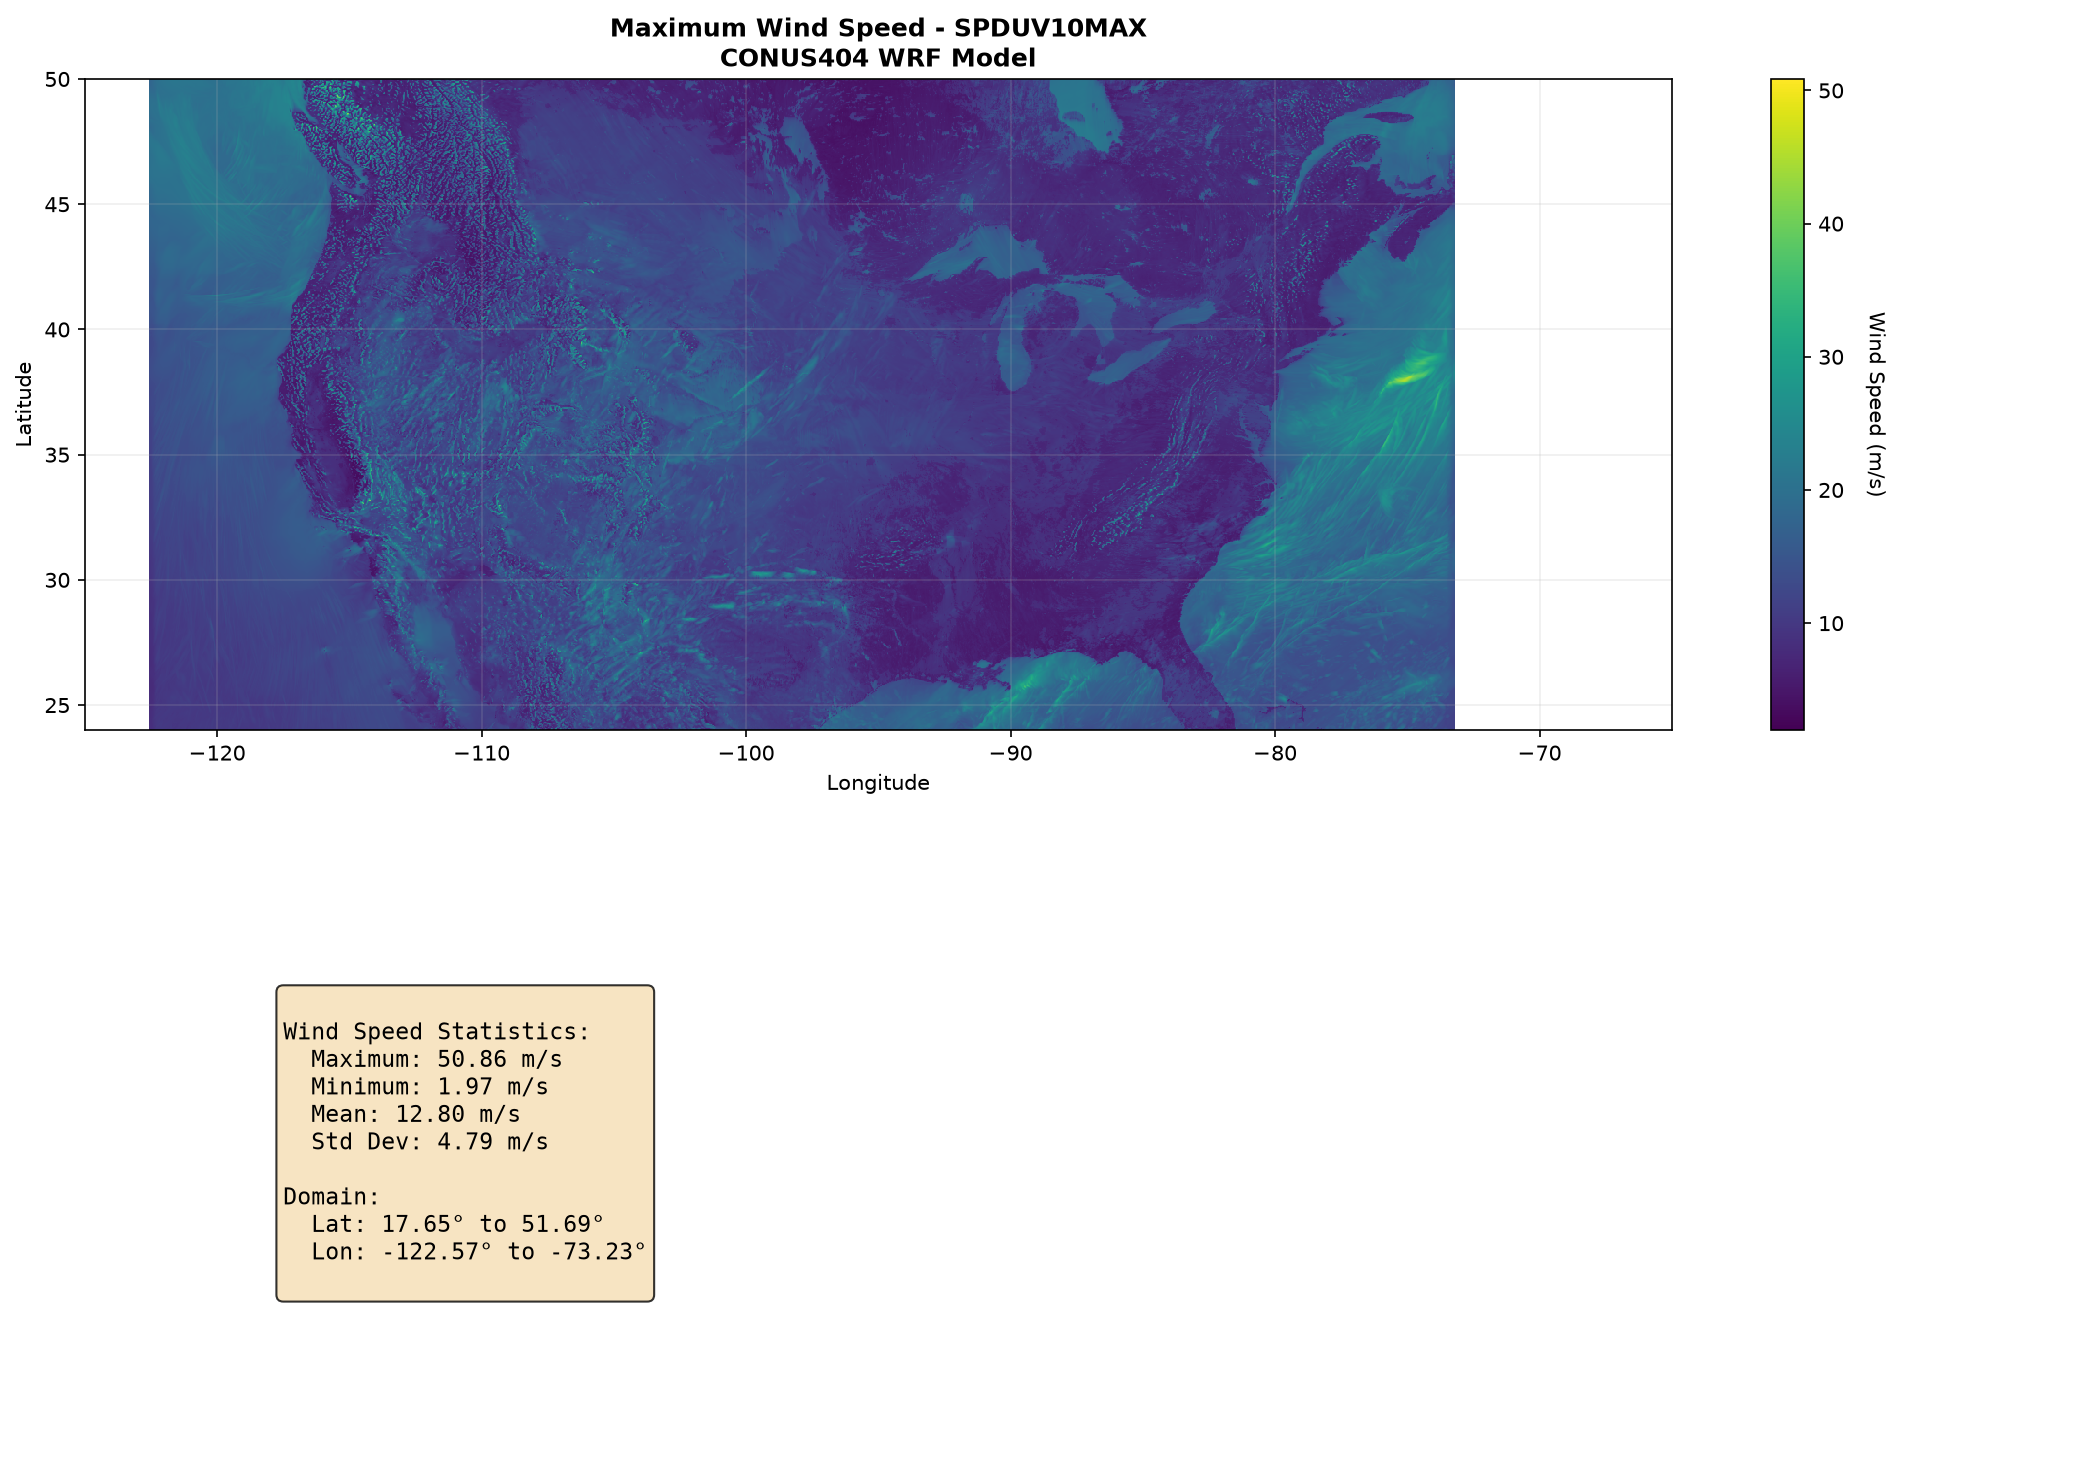
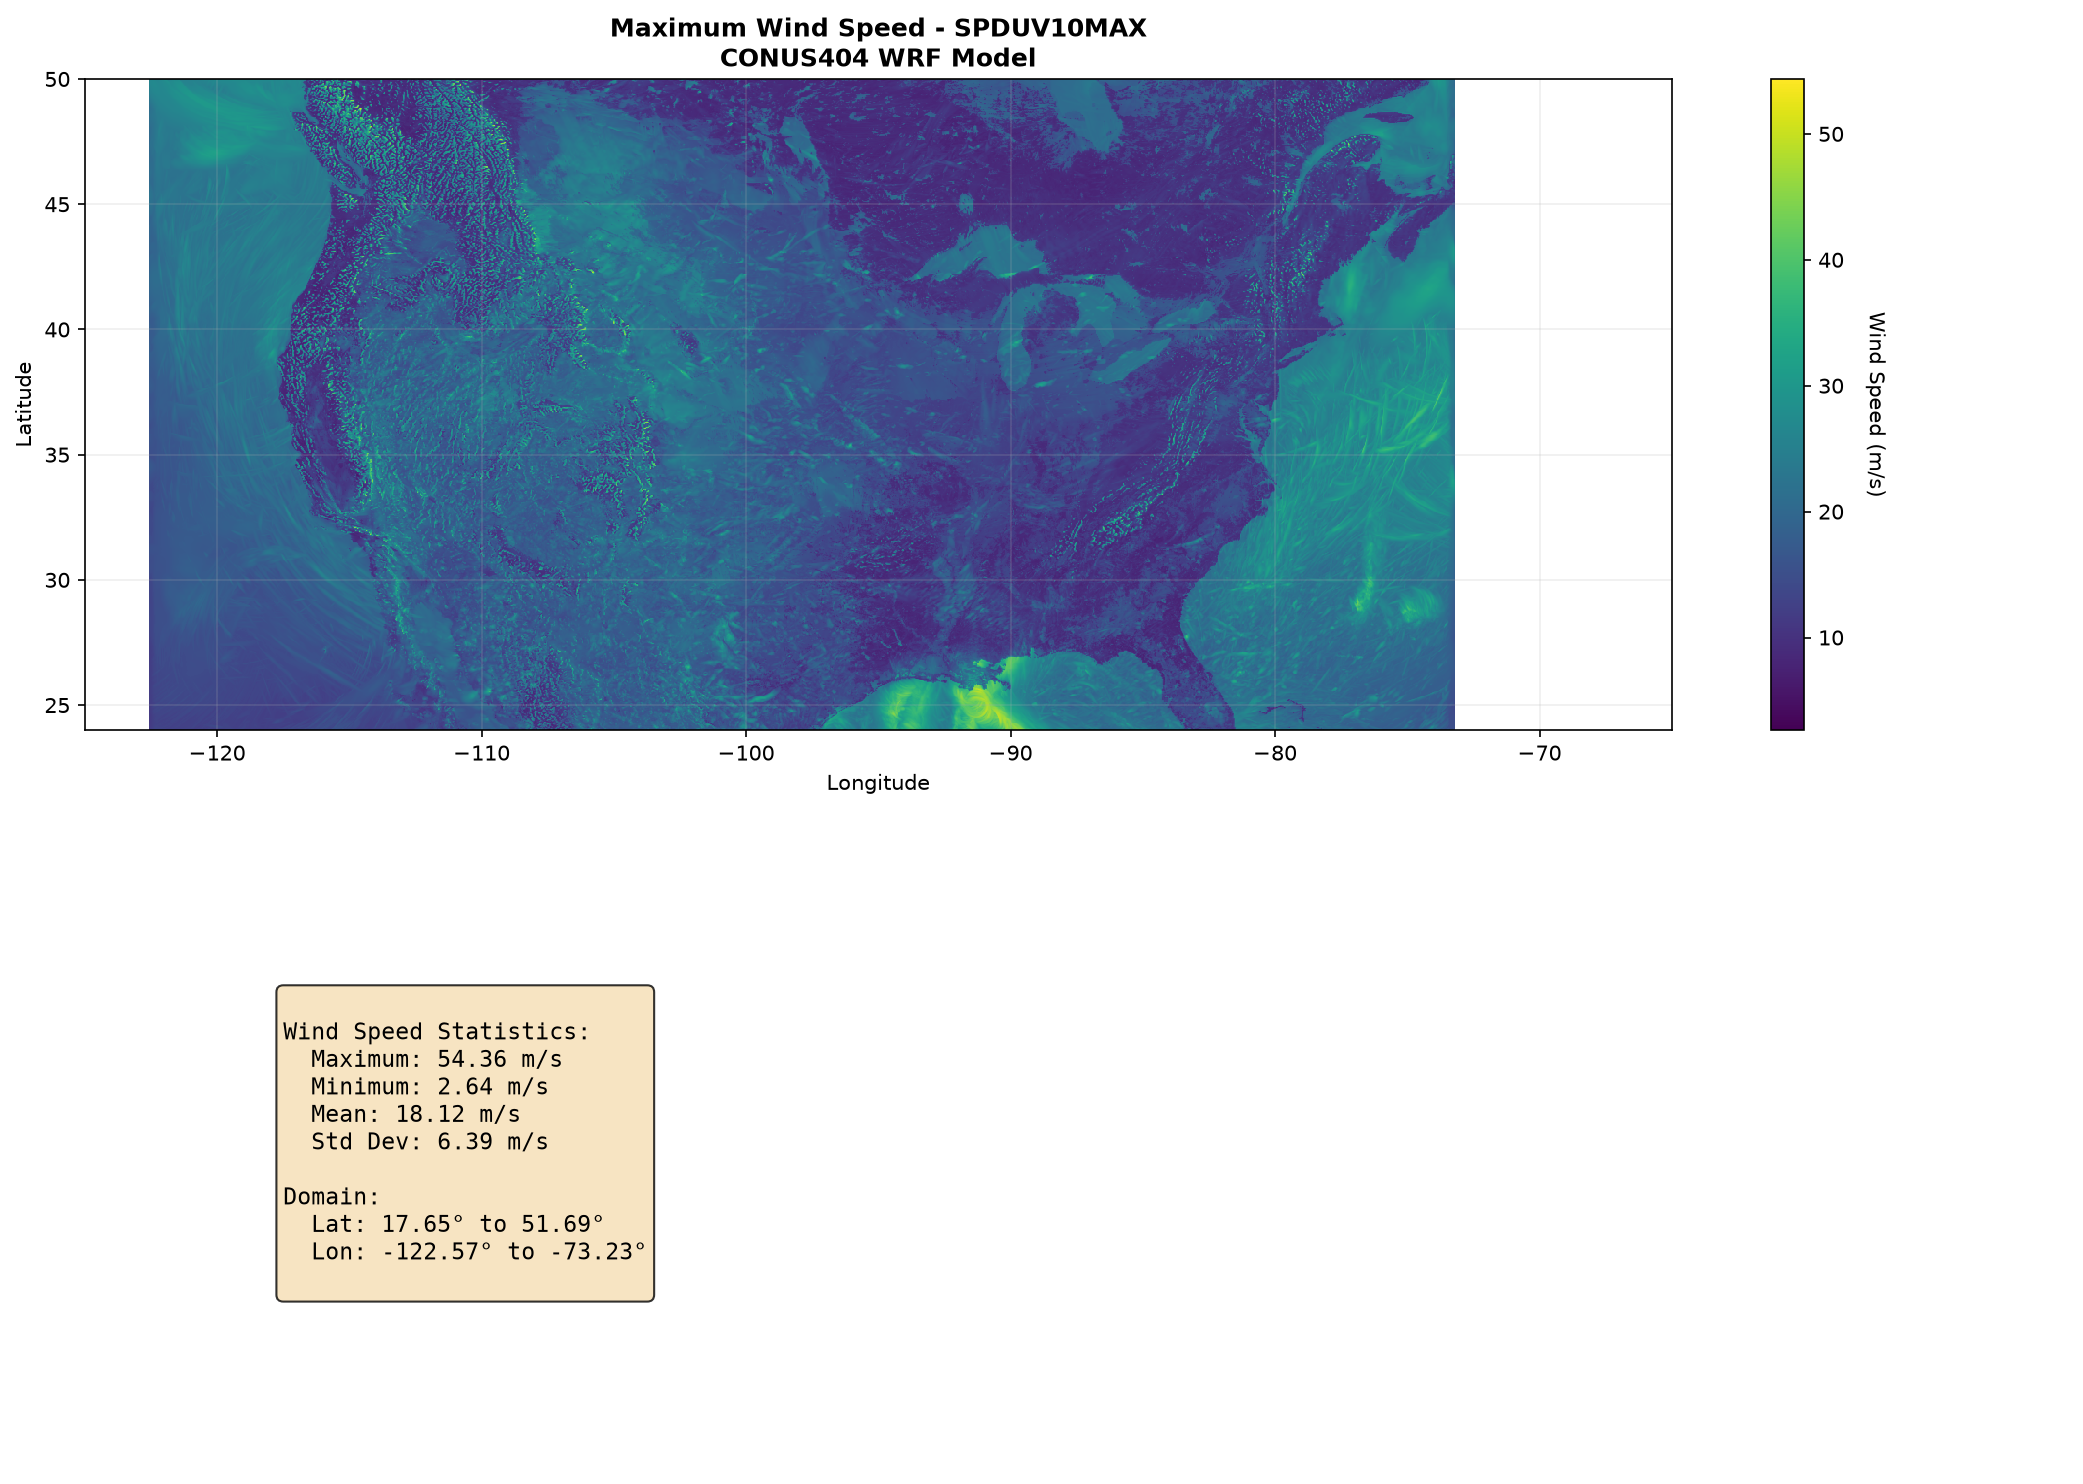
h5 development data downloads completed

diff --git a/visualize_max_wind_speed_area_focus.py b/visualize_max_wind_speed_area_focus.py
@@ -1,0 +1,158 @@
+"""
+Visualization of maximum wind speed from CONUS404 WRF model
+with regional bounding box cropping around Durham, NC.
+"""
+
+import xarray as xr
+import matplotlib.pyplot as plt
+import numpy as np
+from matplotlib.colors import Normalize
+import warnings
+warnings.filterwarnings('ignore')
+
+print("Loading NetCDF file...")
+nc_file = 'year_raw_data/water_year_2020/wrfxtrm_d01_max_spduv10max_2020.nc'
+ds = xr.open_dataset(nc_file)
+
+print("\n=== DATASET INFORMATION ===")
+print(ds)
+
+# Extract coordinates and data
+print("\n=== EXAMINING DATA ===")
+
+# Find coordinate variables
+coord_vars = list(ds.coords.keys())
+data_vars = list(ds.data_vars.keys())
+
+print(f"Coordinates: {coord_vars}")
+print(f"Data variables: {data_vars}")
+
+# Prioritize the true 2D variables we generated if they are available
+if 'lat_2d' in ds.variables and 'lon_2d' in ds.variables:
+    lat_2d = ds['lat_2d'].values
+    lon_2d = ds['lon_2d'].values
+    print("\nFound 'lat_2d' and 'lon_2d' variables")
+elif 'lat' in ds.coords:
+    lat = ds['lat'].values
+    lon = ds['lon'].values
+    lon_2d, lat_2d = np.meshgrid(lon, lat)
+    print("\nFound 'lat' and 'lon' coordinates, expanded to 2D")
+elif 'XLAT' in ds.data_vars:
+    lat_2d = ds['XLAT'].values
+    lon_2d = ds['XLONG'].values
+    print("\nFound 'XLAT' and 'XLONG' data variables")
+else:
+    print("\nNo explicit coordinates found. Creating synthetic grid...")
+    grid_shape = ds['SPDUV10MAX'].shape
+    south_north, west_east = grid_shape
+    lat_min, lat_max = 24.5, 49.5
+    lon_min, lon_max = -125.0, -66.0
+    lat = np.linspace(lat_max, lat_min, south_north)
+    lon = np.linspace(lon_min, lon_max, west_east)
+    lon_2d, lat_2d = np.meshgrid(lon, lat)
+
+# Get the main wind speed variable
+wind_var = None
+for var in data_vars:
+    if 'spd' in var.lower() or 'wind' in var.lower():
+        wind_var = var
+        break
+
+if wind_var is None:
+    wind_var = data_vars[0]
+
+print(f"\nUsing variable: {wind_var}")
+wind_speed = ds[wind_var].values
+
+# Handle multi-dimensional data
+if wind_speed.ndim == 3:
+    wind_speed = np.nanmax(wind_speed, axis=0)
+elif wind_speed.ndim == 4:
+    wind_speed = np.nanmax(wind_speed[:, 0, :, :], axis=0)
+
+# =====================================================================
+# NEW: REGIONAL CROPPING CONFIGURATION (Durham, NC)
+# =====================================================================
+# Center: 35.9940° N, -78.8986° W
+# Let's create a +/- 1.5 degree box around Durham for a nice regional view
+lat_center, lon_center = 35.9940, -78.8986
+lat_padding, lon_padding = 3, 3
+
+crop_lat_min = lat_center - lat_padding
+crop_lat_max = lat_center + lat_padding
+crop_col_min = lon_center - lon_padding
+crop_col_max = lon_center + lon_padding
+
+# Create a boolean mask matching the regional box
+region_mask = (
+    (lat_2d >= crop_lat_min) & (lat_2d <= crop_lat_max) & 
+    (lon_2d >= crop_col_min) & (lon_2d <= crop_col_max)
+)
+
+# Pull local statistics just for this cropped window
+cropped_wind = np.where(region_mask, wind_speed, np.nan)
+
+if np.sum(region_mask) == 0:
+    print("\n⚠️ WARNING: Your crop bounds do not overlap with the dataset grid.")
+    print("Defaulting back to the full domain view.")
+    # Reset bounds to full map if something went wrong
+    crop_lat_min, crop_lat_max = 24, 50
+    crop_col_min, crop_col_max = -125, -65
+    cropped_wind = wind_speed
+else:
+    print(f"\n✓ Successfully cropped around Durham, NC!")
+    print(f"  Cropped Lat Box: {crop_lat_min:.2f}° to {crop_lat_max:.2f}°")
+    print(f"  Cropped Lon Box: {crop_col_min:.2f}° to {crop_col_max:.2f}°")
+# =====================================================================
+
+print(f"\n=== REGIONAL WIND SPEED STATISTICS ===")
+print(f"Min: {np.nanmin(cropped_wind):.2f} m/s")
+print(f"Max: {np.nanmax(cropped_wind):.2f} m/s")
+print(f"Mean: {np.nanmean(cropped_wind):.2f} m/s")
+
+# Create simple matplotlib map
+print("\n=== CREATING VISUALIZATION ===")
+
+fig, axes = plt.subplots(2, 1, figsize=(12, 10))
+
+# Main map (We still plot the arrays, but adjust the view limits)
+im = axes[0].pcolormesh(lon_2d, lat_2d, wind_speed, cmap='viridis', shading='auto')
+axes[0].set_xlabel('Longitude')
+axes[0].set_ylabel('Latitude')
+axes[0].set_title(f'Maximum Wind Speed (Zoomed: Durham, NC Region)\nCONUS404 WRF Model', fontweight='bold', fontsize=12)
+
+# Apply our cropped limits here
+axes[0].set_xlim([crop_col_min, crop_col_max])
+axes[0].set_ylim([crop_lat_min, crop_lat_max])
+
+# Drop a red marker directly onto Durham's coordinates
+axes[0].plot(lon_center, lat_center, marker='*', color='red', markersize=12, label='Durham, NC')
+axes[0].legend(loc='upper right')
+
+cbar = plt.colorbar(im, ax=axes[0])
+cbar.set_label('Wind Speed (m/s)', rotation=270, labelpad=20)
+axes[0].grid(True, alpha=0.4)
+
+# Statistics (Updated to use regional statistics)
+stats_text = f"""
+Durham Region Wind Speed Statistics:
+  Maximum: {np.nanmax(cropped_wind):.2f} m/s
+  Minimum: {np.nanmin(cropped_wind):.2f} m/s
+  Mean:    {np.nanmean(cropped_wind):.2f} m/s
+  
+Bounding Box Dimensions:
+  Lat: {crop_lat_min:.2f}° to {crop_lat_max:.2f}°
+  Lon: {crop_col_min:.2f}° to {crop_col_max:.2f}°
+"""
+axes[1].text(0.1, 0.5, stats_text, fontsize=11, family='monospace',
+            verticalalignment='center',
+            bbox=dict(boxstyle='round', facecolor='wheat', alpha=0.8))
+axes[1].axis('off')
+
+plt.tight_layout()
+
+print("Saving figure...")
+plt.savefig('max_wind_speed_durham_crop.png', dpi=150, bbox_inches='tight')
+print("✓ Saved to max_wind_speed_durham_crop.png")
+
+print("\nDone!")

diff --git a/validate_annual_max_files.py b/validate_annual_max_files.py
@@ -2,7 +2,7 @@
 Phase 1: Validate and load 40 years of annual maximum wind speed data.
 
 This script:
-1. Scans raw_data/annual_max/ for all wrfxtrm_d01_max_spduv10max_YYYY.nc files
+1. Scans year_raw_data/water_year_YYYY/ for all wrfxtrm_d01_max_spduv10max_YYYY.nc files
 2. Validates each file (grid consistency, variable presence)
 3. Loads all years into a single consolidated array
 4. Saves validated data as intermediate HDF5 for downstream processing
@@ -17,8 +17,9 @@ from pathlib import Path
 from datetime import datetime
 
 def find_annual_max_files(base_dir):
-    """Find all annual max wrfxtrm files in the directory."""
-    pattern = os.path.join(base_dir, 'wrfxtrm_d01_max_spduv10max_*.nc')
+    """Find all annual max wrfxtrm files across all water_year subdirectories."""
+    # FIX: Added 'water_year_*' to the pattern to search all subfolders dynamically
+    pattern = os.path.join(base_dir, 'water_year_*', 'wrfxtrm_d01_max_spduv10max_*.nc')
     files = sorted(glob.glob(pattern))
     return files
 
@@ -33,10 +34,10 @@ def extract_year_from_filename(filename):
 
 def validate_file(file_path):
     """
-    Validate a single annual max NetCDF file.
+    Validate a single annual max NetCDF file using updated lat/lon dimensions.
     
     Returns:
-        (is_valid, grid_shape, data, errors/warnings)
+        (is_valid, grid_shape, data, errors, warnings)
     """
     errors = []
     warnings = []
@@ -46,21 +47,22 @@ def validate_file(file_path):
     try:
         ds = nc.Dataset(file_path, 'r')
         
-        # Check dimensions
-        if 'south_north' not in ds.dimensions or 'west_east' not in ds.dimensions:
-            errors.append("Missing south_north or west_east dimension")
+        # FIX: Check for the dimensions actually generated ('lat' and 'lon' or 'y' and 'x')
+        # Your updated NetCDF creation script outputs 'lat' and 'lon' as the primary dimensions
+        if 'lat' not in ds.dimensions or 'lon' not in ds.dimensions:
+            errors.append("Missing 'lat' or 'lon' dimensions in the processed file")
             ds.close()
-            return False, None, None, errors
+            return False, None, None, errors, warnings  # 5 items
         
-        south_north = len(ds.dimensions['south_north'])
-        west_east = len(ds.dimensions['west_east'])
-        grid_shape = (south_north, west_east)
+        lat_dim = len(ds.dimensions['lat'])
+        lon_dim = len(ds.dimensions['lon'])
+        grid_shape = (lat_dim, lon_dim)
         
         # Check SPDUV10MAX variable
         if 'SPDUV10MAX' not in ds.variables:
             errors.append("Missing SPDUV10MAX variable")
             ds.close()
-            return False, grid_shape, None, errors
+            return False, grid_shape, None, errors, warnings  # 5 items
         
         # Extract data
         spduv = ds.variables['SPDUV10MAX'][:]
@@ -69,15 +71,15 @@ def validate_file(file_path):
         if spduv.ndim == 3:
             spduv = spduv[0, :, :]  # Take first time step
         elif spduv.ndim != 2:
-            errors.append(f"Unexpected dimensions: {spduv.shape}")
+            errors.append(f"Unexpected data dimensions: {spduv.shape}")
             ds.close()
-            return False, grid_shape, None, errors
+            return False, grid_shape, None, errors, warnings  # 5 items
         
         # Check for expected grid
         if spduv.shape != grid_shape:
-            errors.append(f"Data shape {spduv.shape} doesn't match grid {grid_shape}")
+            errors.append(f"Data shape {spduv.shape} doesn't match grid template {grid_shape}")
             ds.close()
-            return False, grid_shape, None, errors
+            return False, grid_shape, None, errors, warnings  # 5 items
         
         # Data quality checks
         nan_count = np.isnan(spduv).sum()
@@ -94,17 +96,22 @@ def validate_file(file_path):
         
         data = spduv
         ds.close()
+        
         is_valid = len(errors) == 0
-        return is_valid, grid_shape, data, errors, warnings
+        return is_valid, grid_shape, data, errors, warnings  # 5 items
         
     except Exception as e:
-        errors.append(f"Error reading file: {str(e)}")
-        return False, None, None, errors
+        errors.append(f"Error reading file structure: {str(e)}")
+        return False, None, None, errors, warnings  # 5 items
 
 def main():
-    # Paths
-    base_dir = r'c:\Users\ajj4p\Documents\GitHub\CONUS404_Processing\raw_data\annual_max'
-    output_dir = r'c:\Users\ajj4p\Documents\GitHub\CONUS404_Processing\raw_data'
+# Paths
+    # FIX: Point to the parent directory 'year_raw_data'
+    base_dir = r'c:\Users\ajj4p\Documents\GitHub\CONUS404_Processing\year_raw_data'
+    output_dir = r'c:\Users\ajj4p\Documents\GitHub\CONUS404_Processing\output'
+    
+    # Ensure the output directory exists before writing to it
+    os.makedirs(output_dir, exist_ok=True)
     output_file = os.path.join(output_dir, 'validated_annual_max_data.h5')
     
     # Check if directory exists

diff --git a/extract_max_wind_speed_yearly.py b/extract_max_wind_speed_yearly.py
@@ -168,7 +168,7 @@ def create_output_netcdf(output_path, max_wind_data, grid_info):
     spduv_var.coordinates = 'lat lon lat_2d lon_2d'
     spduv_var[:] = max_wind_data
     
-    ds_out.title = 'CONUS404 Maximum Water Year Wind Speed at 10m (2013)'
+    ds_out.title = 'CONUS404 Maximum Water Year Wind Speed at 10m (1981)'
     ds_out.history = f'Created {datetime.now().isoformat()} across 12 monthly tar archives.'
     ds_out.Conventions = 'CF-1.7'
     
@@ -176,10 +176,10 @@ def create_output_netcdf(output_path, max_wind_data, grid_info):
     print(f"\nOutput file created successfully!")
 
 def main():
-    # Paths configured for Water Year 2013
-    raw_data_dir = r'c:\Users\ajj4p\Documents\GitHub\CONUS404_Processing\year_raw_data\water_year_2013'
-    extract_dir = r'c:\Users\ajj4p\Documents\GitHub\CONUS404_Processing\year_raw_data\water_year_2013_output'
-    output_file = os.path.join(raw_data_dir, 'wrfxtrm_d01_max_spduv10max_2013.nc')
+    # Paths configured for Water Year 1981
+    raw_data_dir = r'c:\Users\ajj4p\Documents\GitHub\CONUS404_Processing\year_raw_data\water_year_1981'
+    extract_dir = r'c:\Users\ajj4p\Documents\GitHub\CONUS404_Processing\year_raw_data\water_year_1981_output'
+    output_file = os.path.join(raw_data_dir, 'wrfxtrm_d01_max_spduv10max_1981.nc')
     
     # Create extraction directory if it doesn't exist
     os.makedirs(extract_dir, exist_ok=True)

diff --git a/visualize_max_wind_speed_simple.py b/visualize_max_wind_speed_simple.py
@@ -11,7 +11,7 @@ import warnings
 warnings.filterwarnings('ignore')
 
 print("Loading NetCDF file...")
-nc_file = 'raw_data/wrfxtrm_d01_max_spduv10max.nc'
+nc_file = 'year_raw_data/water_year_2021/wrfxtrm_d01_max_spduv10max_2021.nc'
 ds = xr.open_dataset(nc_file)
 
 print("\n=== DATASET INFORMATION ===")

diff --git a/README.md b/README.md
@@ -2,6 +2,10 @@
 
 Opening Tar files and turning data into 40 max yearly points for every geo-location, then computing extreme value statistics (GEV) to determine wind speed return periods.
 
+Data gathered from https://app.globus.org/activity
+https://www.sciencebase.gov/catalog/item/6372cd09d34ed907bf6c6ab1
+
+Globus Access Portal for the Raw Output Files	https://app.globus.org/file-manager?origin_id=12aeed7a-9693-4f99-9816-96911c1322d2&origin_path=%2F&two_pane=true
 ---
 
 ## Overview